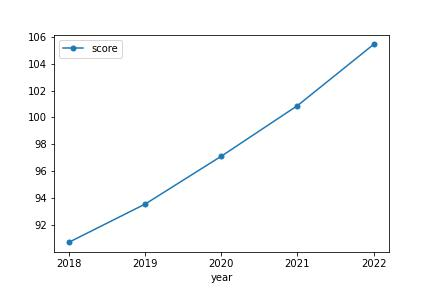
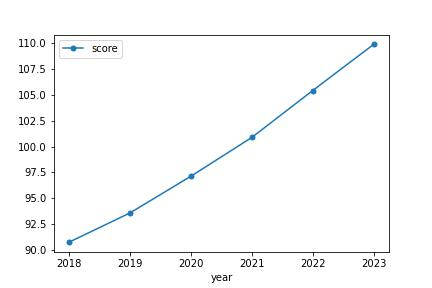
[BJ-0006] Add increase trend

diff --git a/README.md b/README.md
@@ -1,4 +1,4 @@
-#beijing-household
+# beijing-household
 北京积分落户分析
 
 
@@ -8,11 +8,10 @@ The data of 2020 is from `http://fuwu.rsj.beijing.gov.cn/nwesqintegralpublic/set
 ## 政策相关
 每年录取名额6000人，按积分情况择优录取，由于存在同分数情况，本着公平公正原则，划线可能会导致最终录取名额超过6000人
 
-2018年
-2019年
-2020年
 
 ## 分析
-![Alt text](img/score_trend.jpeg “历年分数线趋势”)
+![分数线趋势](./img/score_trend.jpeg)
+
+![每年涨幅趋势](./img/increase_trend.jpeg)
 
 ## 分析结论
